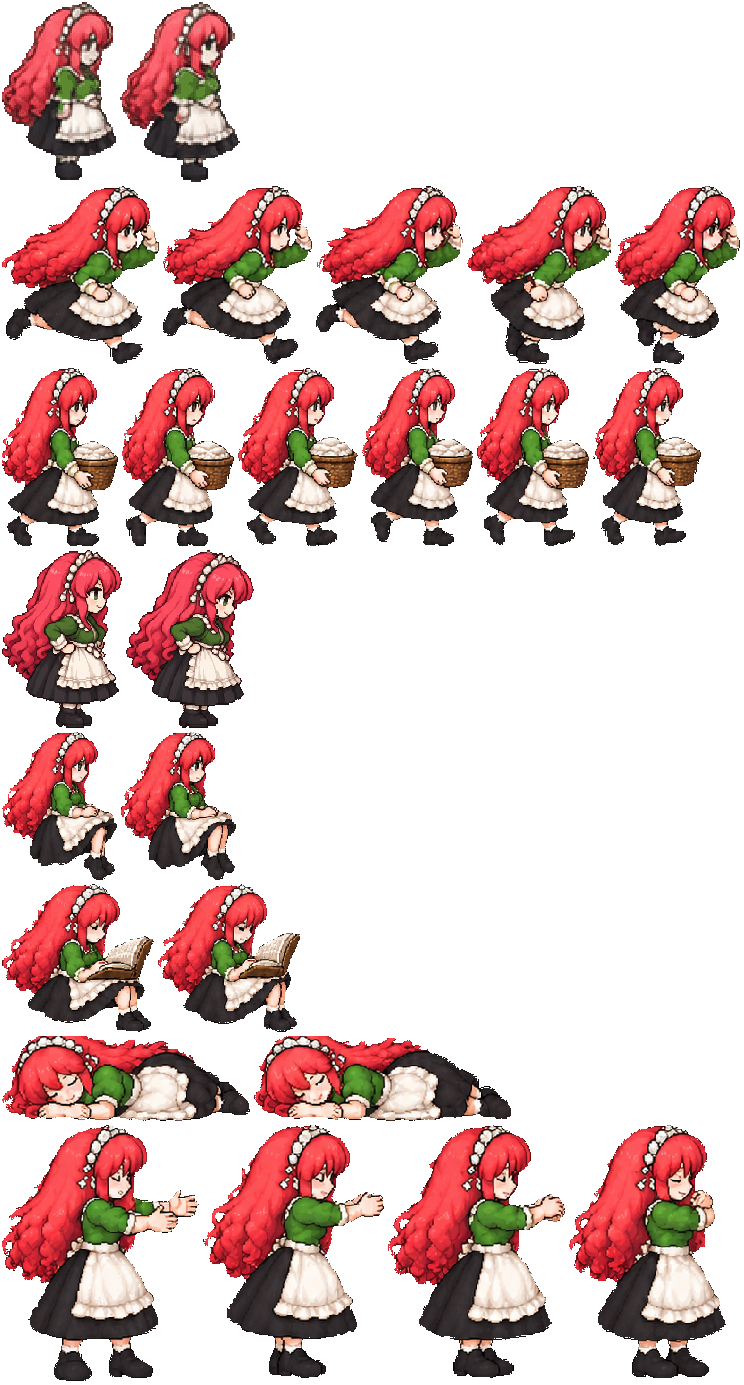
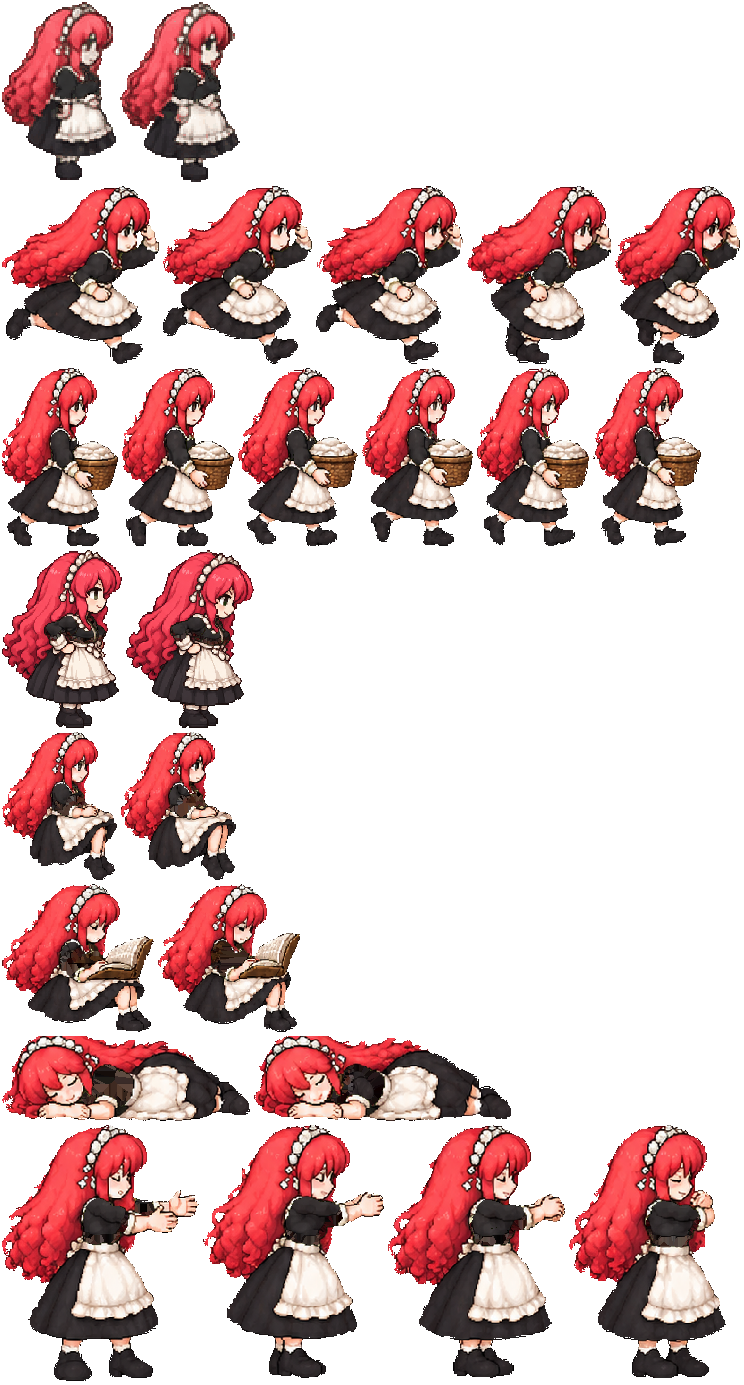
fix(assets): restore Nygglatho maid outfit and deliver interaction signs

diff --git a/docs/ASSETS_HD2D.md b/docs/ASSETS_HD2D.md
@@ -148,7 +148,7 @@ trois vues. » puis la description.
 | --- | --- | --- | --- |
 | 1 | `chtholly/chtholly` (remplace l'actuelle, qui sert à l'acte 3) | 1,5 m = 144 px | Chtholly à l'acte 1, fée soldate de 15 ans, proportions des sprites d'*Octopath Traveler* (environ deux têtes et demie à trois têtes de haut), dans la continuité de la planche actuelle : longs cheveux céruléen clair (#6C89BB à #92B6DB) **sans aucune mèche rouge**, deux petites couettes hautes, yeux bleu océan ; uniforme de la Garde ailée (veste bleu marine à col droit et boutons argentés, jupe plissée sombre, bottines), broche d'argent à pierre bleue en goutte sur la poitrine ; Seniorious : grande épée presque aussi haute qu'elle, lame blanc argenté faite de plaques fissurées, garde sombre hérissée |
 | 2 | `willem/willem` | 1,75 m = 168 px | Willem Kmetsch, jeune homme maigre, cheveux noirs en bataille, yeux sombres, sourire fatigué ; uniforme militaire bleu nuit croisé à boutons dorés un peu trop étroit, ceinturon, bottes |
-| 2 | `nygglatho/nygglatho` | 1,85 m = 178 px | Nygglatho, troll à l'air de jeune femme, une tête de plus que tous ; longs cheveux rose saumon, yeux vert printanier, chemisier vert vif à volants, tablier blanc, coiffe blanche à volants ; sourire doux |
+| 2 | `nygglatho/nygglatho` | 1,85 m = 178 px | Nygglatho, troll à l'air de jeune femme, une tête de plus que tous ; longs cheveux rose saumon, yeux vert printanier, robe de bonne noire et blanche des planches officielles de l’anime, tablier blanc, coiffe blanche à volants (choix utilisateur du 16 octobre 2026, remplace le chemisier vert des anciennes consignes) ; sourire doux |
 | 2 | `ithea/ithea` (7 animations + `parle`) | 1,45 m = 139 px | Ithea, fée soldate de 14 ans : **apparence des planches officielles de l'anime, choisie par l'utilisateur le 8 octobre 2026**, en remplacement du portrait blond précédent ; cheveux orange ébouriffés, deux mèches pointues et petites nattes à perles bleues, regard félin ambré, écharpe orange, veste crème aux garnitures vertes sur robe brun-rouge ; Carillon Valgulious en plaques ivoire fissurées, lame droite élargie à l'extrémité arrondie ; au repos et en marche de profil, la lame pointe vers l'arrière |
 | 2 | `nephren/nephren` (7 animations + `parle`) | 1,3 m = 125 px | Nephren, fée soldate de 13 ans, toute petite : cheveux gris cendré à reflets lavande en deux couettes ondulées à rubans noirs, yeux gris anthracite, visage impassible, tunique violette à capuche et frise de triangles blancs, livre rouge |
 | 2 | `tiat/tiat` | 1,1 m = 106 px | Tiat, petite fée de moins de dix ans : cheveux et yeux vert feuille (#78B89E), blouse blanche, gilet vert sombre, air enthousiaste |

diff --git a/assets/CREDITS.md b/assets/CREDITS.md
@@ -207,3 +207,12 @@ Généré avec ChatGPT le 15 octobre 2026, cahier n° 5 (`docs/ASSETS_HD2D_ILE68
 Références : trois vues existantes de chaque personnage, `willem_coat` pour la toile et le cuir, pages officielles64,11 et47 des ZIP fournis par l’utilisateur. Alpha net, recalage au plus proche voisin et montage local autorisé pour les pieds immobiles, le dialogue fermé et la respiration ; dix générations originales conservées séparément, dont la vue arrière de Collon remplacée pour la course et le saut. Tenues à enregistrer et placer dans les scènes ; aucun ancien PNG/JSON ni dessin anime modifié.
 
 - 2026-10-15 — généré avec ChatGPT le 15 octobre 2026, cahier n° 5, lot R2 priorité 2 : tenues de pluie de Lakhesh (115 px), Nygglatho (corps 178 px ; parapluie inclus 234 px), Pannibal (120 px) et Tiat (106 px). Douze PNG et douze JSON, 201 poses ; trois vues par personnage. Références : sprites existants des quatre personnages et de Willem en pardessus ; planches officielles des ZIP fournis, pages 49, 51, 45 et 41. Origines et générations conservées hors dépôt ; recalage au plus proche voisin et montage localisé autorisés, sans lissage ni changement de palette.
+
+
+## Nygglatho — tenue de bonne officielle (16 octobre 2026)
+
+Généré avec ChatGPT / outil d’image : correction des vêtements verts en tissu noir de la tenue de bonne, référence officielle fournie par l’utilisateur (ZIP, page 51). Quinze PNG existants corrigés (portrait compris), plus trois planches de linge avec leurs JSON, soit six variantes, dix-huit vues et 237 poses. La vue arrière en blouse de laboratoire, sans vêtement vert, reste identique. Montage localisé autorisé : copie de pixels des tissus générés dans les seules zones de vêtement concernées, recalage au plus proche voisin ; alpha, cadrages, visages, cheveux et accessoires conservés. Repos du linge et de la vie quotidienne recopiés depuis la base corrigée ; sommeil commun recopié entre vues. JSON existants inchangés. Originaux et générations conservés séparément. La nouvelle variante linge reste à enregistrer et placer en jeu.
+
+## B.3 — signes d’interaction (16 octobre 2026)
+
+Quatre remplaçants générés avec ChatGPT / outil d’image selon le cahier n° 6, B.3 : parler, examiner, prendre, entrer. PNG transparents 64 × 64 à alpha doux, crème, or et prune ; réduction géométrique au plus proche voisin, sans changement des couleurs. Dessins centrés, marge basse de 4 px. Sources générées et anciens remplaçants conservés séparément.

diff --git a/assets/characters/CREDITS.md b/assets/characters/CREDITS.md
@@ -119,3 +119,8 @@ Généré avec ChatGPT le 15 octobre 2026, cahier n° 5 (`docs/ASSETS_HD2D_ILE68
 Références : trois vues existantes de chaque personnage, `willem_coat` pour la toile et le cuir, pages officielles64,11 et47 des ZIP fournis par l’utilisateur. Alpha net, recalage au plus proche voisin et montage local autorisé pour les pieds immobiles, le dialogue fermé et la respiration ; dix générations originales conservées séparément, dont la vue arrière de Collon remplacée pour la course et le saut. Tenues à enregistrer et placer dans les scènes ; aucun ancien PNG/JSON ni dessin anime modifié.
 
 - 2026-10-15 — généré avec ChatGPT le 15 octobre 2026, cahier n° 5, lot R2 priorité 2 : tenues de pluie de Lakhesh (115 px), Nygglatho (corps 178 px ; parapluie inclus 234 px), Pannibal (120 px) et Tiat (106 px). Douze PNG et douze JSON, 201 poses ; trois vues par personnage. Références : sprites existants des quatre personnages et de Willem en pardessus ; planches officielles des ZIP fournis, pages 49, 51, 45 et 41. Origines et générations conservées hors dépôt ; recalage au plus proche voisin et montage localisé autorisés, sans lissage ni changement de palette.
+
+
+## Nygglatho — tenue de bonne officielle (16 octobre 2026)
+
+Généré avec ChatGPT / outil d’image : correction des vêtements verts en tissu noir de la tenue de bonne, référence officielle fournie par l’utilisateur (ZIP, page 51). Quinze PNG existants corrigés (portrait compris), plus trois planches de linge avec leurs JSON, soit six variantes, dix-huit vues et 237 poses. La vue arrière en blouse de laboratoire, sans vêtement vert, reste identique. Montage localisé autorisé : copie de pixels des tissus générés dans les seules zones de vêtement concernées, recalage au plus proche voisin ; alpha, cadrages, visages, cheveux et accessoires conservés. Repos du linge et de la vie quotidienne recopiés depuis la base corrigée ; sommeil commun recopié entre vues. JSON existants inchangés. Originaux et générations conservés séparément. La nouvelle variante linge reste à enregistrer et placer en jeu.

diff --git a/docs/ASSETS_HD2D_ILE68_LIVRAISON6.md b/docs/ASSETS_HD2D_ILE68_LIVRAISON6.md
@@ -1193,3 +1193,7 @@ rappelle).
 | `town_house_g`, `town_house_h`, `town_stairs_a`, `town_arch`, `hanging_sign_hat`, `hanging_sign_mortar` sont au n° 5 mais **aucune carte de `CARTE.md` ne les pose** | lot D, priorité 3 (D.2, D.4) |
 | Le manifeste décrit `cart_ruts` et `footprints` (décalques) **sans `soft_alpha`**, alors que R0.8 et R0.11 demandent un alpha doux sur leurs bords ; les quatre `fx/sign_*` (genre `fx`) n'ont aucun contrôle d'alpha | à l'inscription de la livraison, le moteur ajoute `soft_alpha` aux entrées de `cart_ruts` et de `footprints` (sans quoi `hd2d_assets.py check` y verrait de l'« alpha flou ») |
 | Les 13 planches de R2 livrées ne sont **inscrites ni aux `sheets` du manifeste** (`hd2d_sheets.py check` ne les lit pas : 54 planches contrôlées) **ni aux tenues** (`data/npcs/outfits/`) | contrôlées à la main pour ce cahier avec les règles de `hd2d_sheets.py` : 0 problème (hauteur debout du `repos` exacte à 1 px près, mêmes animations dans les trois vues, aucune clé en trop dans les JSON) ; seule `willem_piggyback` mesure 176, 185 et 169 px au lieu de 168, parce que la passagère dépasse Willem (consigne du cahier n° 5) ; inscription et pose dans le jeu : le moteur |
+
+### Précision artistique — Nygglatho (16 octobre 2026)
+
+À la demande de l’utilisateur, toutes les variantes de Nygglatho reprennent désormais la tenue de bonne noire et blanche des planches officielles de l’anime (ZIP, page 51), avec cheveux rose saumon et yeux verts. Les anciennes consignes de chemisier vert ne s’appliquent plus à la production ; les sources et anciens rendus restent conservés. La blouse de laboratoire blanche et le châle de pluie brun sont conservés.
